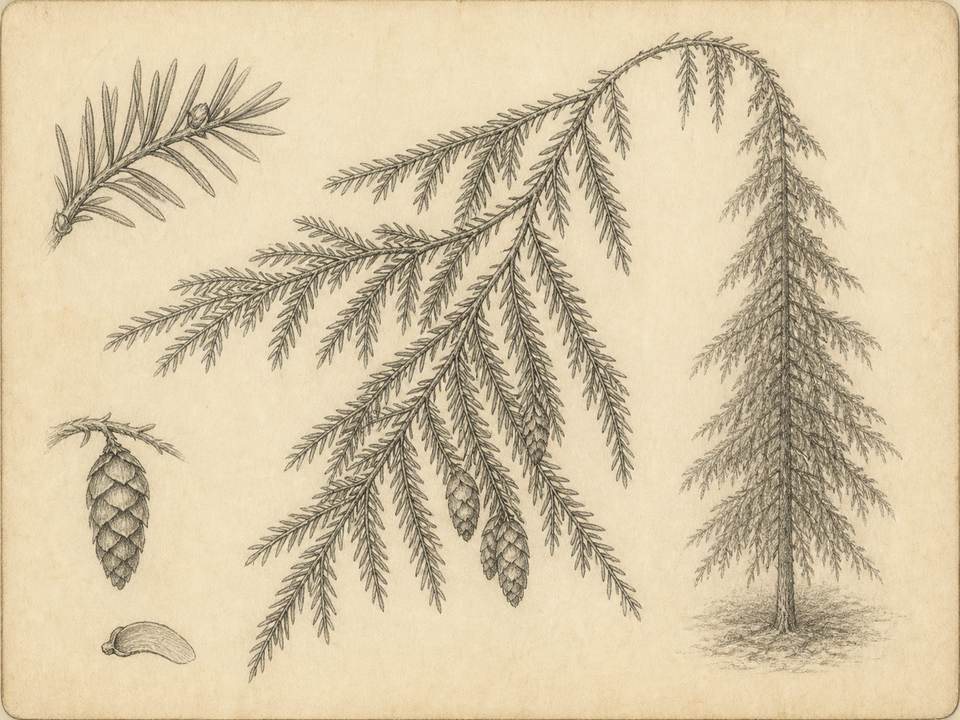
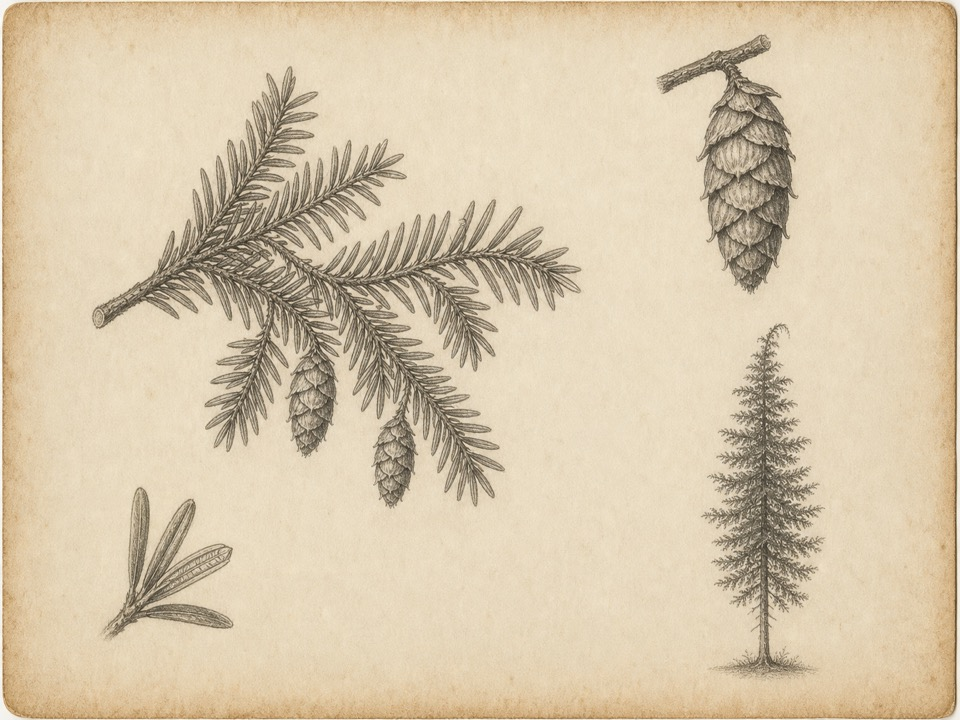
Simplify the field-guide pages and fix the hemlock plate.

diff --git a/js/app.js b/js/app.js
@@ -97,13 +97,10 @@
     return `
       <div class="cover">
         <img class="cover-plate" src="assets/cover-wreath.jpg" alt="Pencil wreath of oak, holly and pine">
-        <p class="kicker">A pocket field guide</p>
         <h1>Trees of England</h1>
         <p class="subtitle">A key to trees growing wild,<br>native and long since naturalised</p>
         <hr class="rule">
         <p class="lede">Begin at the first question. At each step choose the line that fits the tree before you, and turn to the page it names.</p>
-        <p class="imprint">The Hedgerow Press</p>
-        <p class="hint">Turn the page — or tap the acorn later to begin again.</p>
       </div>`;
   }
 
@@ -111,7 +108,6 @@
     const keyStart = book.coupletPage.start;
     return `
       <div class="howto">
-        <p class="kicker">How to use this book</p>
         <h2>A word to the finder</h2>
         <hr class="rule">
         <p class="prose">This little guide is made in the old way. It does not ask you to leaf through pictures until one looks right. It asks questions, as a botanist’s key does, until the tree is named.</p>
@@ -122,27 +118,21 @@
           <li>The acorn at the top always returns you to the title-page.</li>
         </ol>
         <p class="prose">Willows, elms, oaks and limes hybridise, and some planted trees sit awkwardly in a wild key. Where that is so, the notes on the species page will say. The trees treated here are those you may reasonably meet growing wild in England — in wood, hedge, heath, river, dune, roadside and waste ground — not the rarer ornaments of gardens. Each named tree has a graphite plate of the characters most useful in the field.</p>
-        <p class="hint">${book.species.length} trees are named in these pages. An index is at the end.</p>
       </div>`;
   }
 
   function renderKey(page) {
     const c = page.couplet;
-    const letters = ["a", "b", "c", "d"];
-    const choices = c.choices.map((ch, i) => `
+    const choices = c.choices.map((ch) => `
       <li>
         <button type="button" class="choice" data-goto="${ch.page}">
-          <span class="choice-text"><i>${letters[i]}.</i> ${escapeHtml(ch.text)}</span>
+          <span class="choice-text">${escapeHtml(ch.text)}</span>
           <span class="choice-page">${ch.page}</span>
         </button>
       </li>`).join("");
     return `
-      <p class="kicker">The key</p>
-      <h2>Look closely</h2>
-      <hr class="rule">
       <p class="lede">${escapeHtml(c.prompt)}</p>
-      <ul class="choice-list">${choices}</ul>
-      ${c.hint ? `<p class="hint">${escapeHtml(c.hint)}</p>` : ""}`;
+      <ul class="choice-list">${choices}</ul>`;
   }
 
   function similarLine(species) {
@@ -161,7 +151,6 @@
     const also = s.also && s.also.length ? `<p class="also">also called ${escapeHtml(s.also.join(", "))}</p>` : "";
     const like = similarLine(s);
     return `
-      <p class="kicker">${escapeHtml(s.family)}</p>
       <h2>${escapeHtml(s.common)}</h2>
       <span class="latin">${escapeHtml(s.latin)}</span>
       <p class="meta-line">${escapeHtml(s.status)} · ${escapeHtml(s.height)}</p>
@@ -191,7 +180,6 @@
       </li>`;
     }).join("");
     return `
-      <p class="kicker">At the back of the book</p>
       <h2>Index of trees</h2>
       <hr class="rule">
       <p class="lede">Common names, with the Latin for the sure of hand. Numbers are pages.</p>
@@ -221,14 +209,6 @@
     if (page.type === "species") {
       const hold = sheet.querySelector(".plate-hold");
       if (hold && window.drawTreePlate) window.drawTreePlate(hold, page.species);
-    }
-
-    if ((n % 9 === 0 || n % 13 === 0) && page.type !== "cover") {
-      const stain = document.createElement("div");
-      stain.className = "stain";
-      stain.style.right = (8 + (n % 5) * 7) + "%";
-      stain.style.top = (18 + (n % 7) * 6) + "%";
-      sheet.appendChild(stain);
     }
 
     folio.textContent = "— " + roman(n) + " —";

diff --git a/css/guide.css b/css/guide.css
@@ -1,5 +1,5 @@
 :root {
-  --paper: #e8d7b8;
+  --paper: #f5eedc;
   --paper-deep: #d4c09a;
   --ink: #2c2416;
   --ink-soft: #4e4333;
@@ -57,49 +57,9 @@ body {
   min-height: 100dvh;
   display: flex;
   flex-direction: column;
-  background-color: var(--paper);
-  background-image:
-    linear-gradient(90deg, rgba(90, 60, 20, 0.09), transparent 18px),
-    linear-gradient(180deg, rgba(80, 50, 20, 0.08), transparent 28px),
-    linear-gradient(0deg, rgba(70, 40, 10, 0.12), transparent 40px),
-    url("../assets/paper-texture.jpg");
-  background-size: auto, auto, auto, 520px;
-  background-blend-mode: multiply, multiply, multiply, multiply;
+  background: var(--paper);
   box-shadow: 0 0 0 1px rgba(60, 40, 16, 0.25), 8px 0 28px var(--shadow);
   overflow: hidden;
-}
-
-.wear {
-  pointer-events: none;
-  position: absolute;
-  z-index: 2;
-}
-
-.wear-tl {
-  top: -30px;
-  left: -40px;
-  width: 140px;
-  height: 120px;
-  background: radial-gradient(circle, rgba(90, 55, 20, 0.18), transparent 70%);
-}
-
-.wear-br {
-  right: -20px;
-  bottom: 40px;
-  width: 160px;
-  height: 160px;
-  background: radial-gradient(circle, rgba(80, 40, 10, 0.16), transparent 72%);
-}
-
-.foxing {
-  pointer-events: none;
-  position: absolute;
-  inset: 0;
-  z-index: 1;
-  background:
-    radial-gradient(circle at 18% 72%, rgba(120, 70, 20, 0.13) 0 18px, transparent 32px),
-    radial-gradient(circle at 82% 28%, rgba(110, 60, 20, 0.1) 0 12px, transparent 26px),
-    radial-gradient(circle at 70% 88%, rgba(90, 50, 20, 0.08) 0 22px, transparent 40px);
 }
 
 .book-top,
@@ -243,16 +203,6 @@ body {
   margin: 0.2rem 0 0.85rem;
 }
 
-.kicker {
-  margin: 0 0 0.35rem;
-  font-family: var(--font-display);
-  font-size: 0.72rem;
-  letter-spacing: 0.18em;
-  text-transform: uppercase;
-  color: var(--oxblood);
-  text-align: center;
-}
-
 h1, h2 {
   font-family: var(--font-display);
   font-weight: 600;
@@ -343,14 +293,6 @@ h2 {
   padding: 0.2rem 0.15rem;
 }
 
-.hint {
-  margin: 0.85rem 0 0;
-  font-family: var(--font-hand);
-  font-size: 1.12rem;
-  color: var(--ink-soft);
-  text-align: center;
-}
-
 .cover {
   text-align: center;
   padding-top: 0.2rem;
@@ -374,14 +316,6 @@ h2 {
   margin: 0.15rem 0 0.4rem;
   font-style: italic;
   font-size: 1.15rem;
-}
-
-.imprint {
-  margin-top: 1.1rem;
-  font-size: 0.82rem;
-  letter-spacing: 0.14em;
-  text-transform: uppercase;
-  color: var(--ink-soft);
 }
 
 .plate {
@@ -492,17 +426,6 @@ h2 {
 
 .howto li {
   margin: 0 0 0.45rem;
-}
-
-.stain {
-  pointer-events: none;
-  position: absolute;
-  width: 90px;
-  height: 90px;
-  border-radius: 50%;
-  border: 7px solid rgba(90, 55, 20, 0.09);
-  box-shadow: inset 0 0 0 5px rgba(90, 55, 20, 0.05);
-  z-index: 1;
 }
 
 @media (min-width: 720px) {

diff --git a/js/data.js b/js/data.js
@@ -5,8 +5,7 @@
     couplets: [
       {
         id: "start",
-        prompt: "First look at the leaves — or the needles, if that is what the tree wears.",
-        hint: "Choose the line that fits, then turn to the page named.",
+        prompt: "Leaves or needles?",
         choices: [
           { text: "Leaves needle-like or scale-like; fruit a cone, or a berry-like cone. The conifers.", to: "c:conifer-form" },
           { text: "Leaves broad and flat, not needle-like. The broadleaves.", to: "c:broad-habit" }
@@ -129,7 +128,6 @@
       {
         id: "compound-or-simple",
         prompt: "Is each leaf one blade, or several leaflets?",
-        hint: "A compound leaf has a bud at the base of the whole stalk, not at the base of each leaflet.",
         choices: [
           { text: "Leaves compound — divided into separate leaflets.", to: "c:compound-arrange" },
           { text: "Leaves simple — one blade, though it may be lobed or toothed.", to: "c:simple-arrange" }

diff --git a/index.html b/index.html
@@ -20,9 +20,6 @@
 <body>
   <div class="desk">
     <main class="book" id="book" role="main">
-      <div class="wear wear-tl" aria-hidden="true"></div>
-      <div class="wear wear-br" aria-hidden="true"></div>
-      <div class="foxing" aria-hidden="true"></div>
       <header class="book-top">
         <button type="button" id="homeBtn" class="home-btn" title="Begin again" aria-label="Return to the beginning of the guide">
           <img src="assets/acorn-icon.jpg" alt="">

diff --git a/README.md b/README.md
@@ -14,6 +14,8 @@ python3 -m http.server 8080
 
 Then visit `http://localhost:8080`. On a phone, add it to the home screen if you like; it is built as a small standalone page.
 
+The live guide is at <https://johnryantaylor.github.io/trees-of-england/>.
+
 ## How it works
 
 - Page 1 is the title-page. Page 2 explains the key. The key itself begins on page 3.
